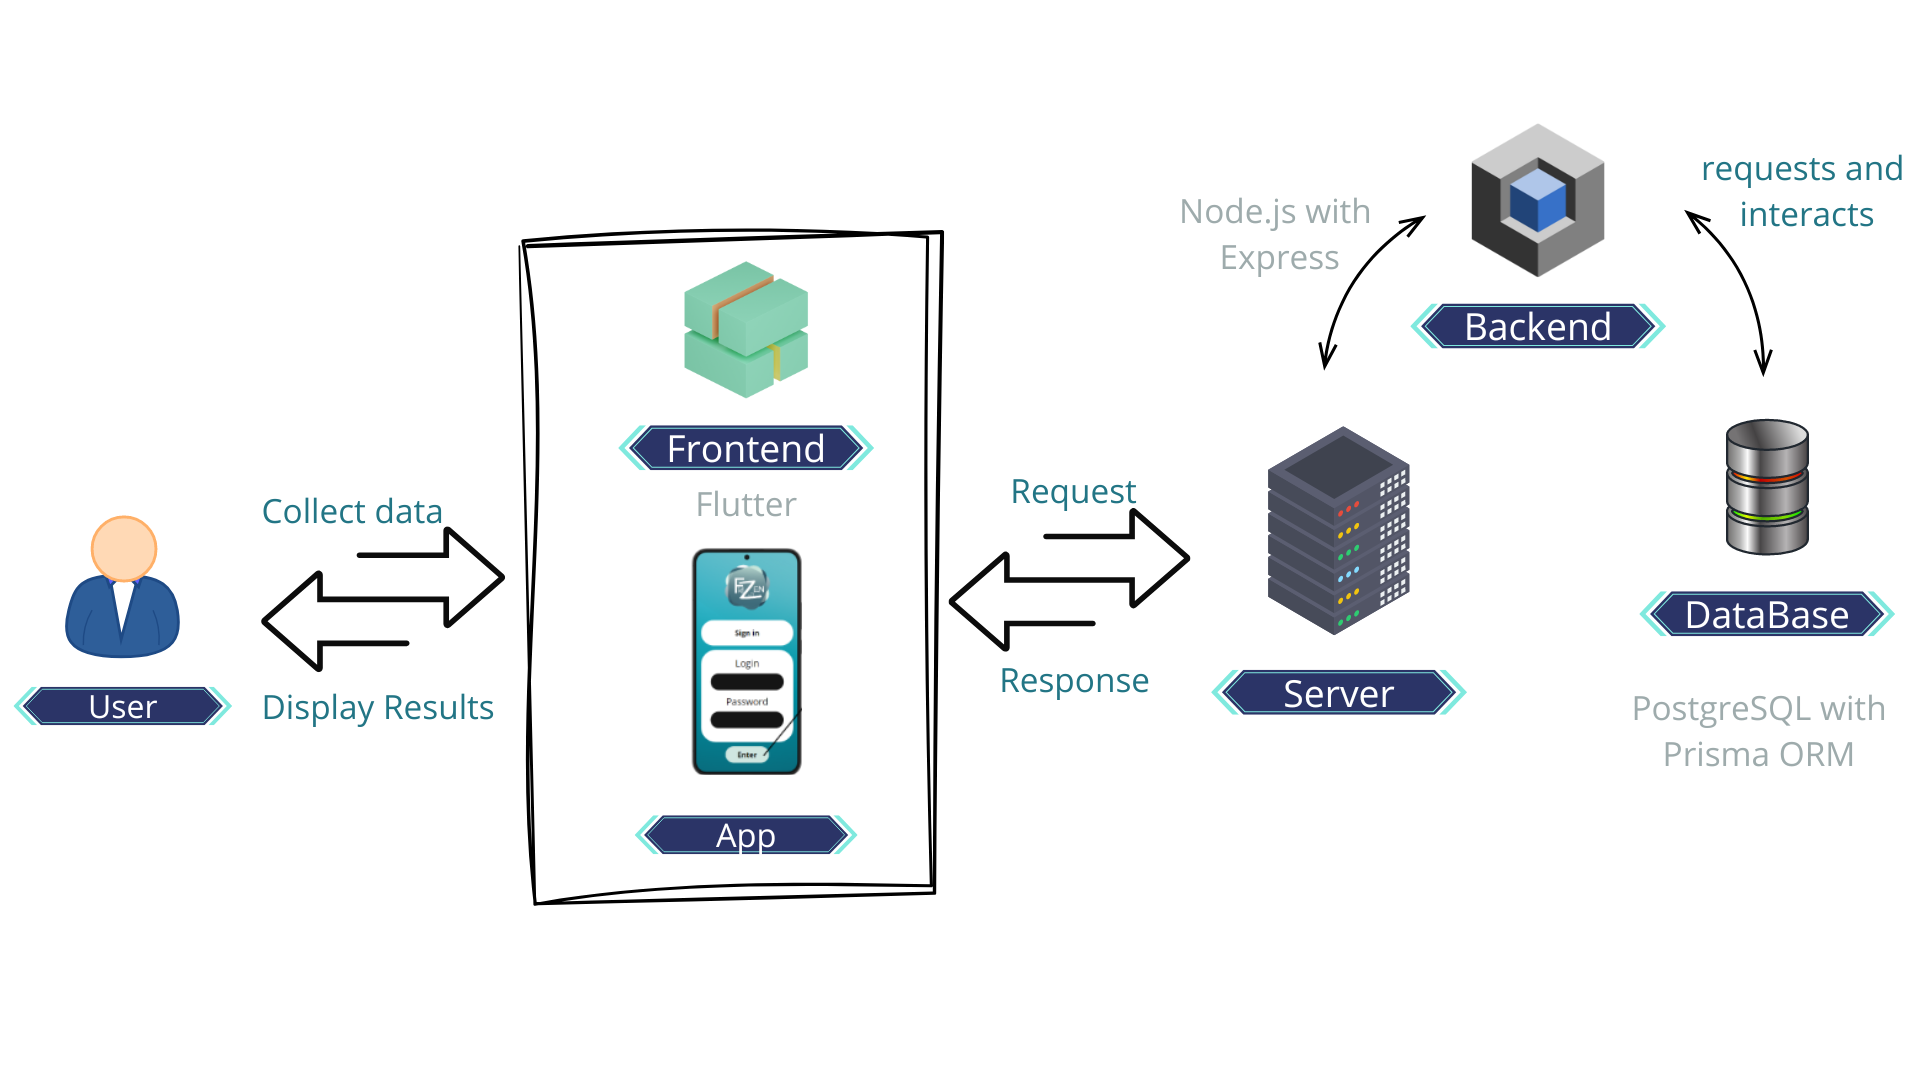
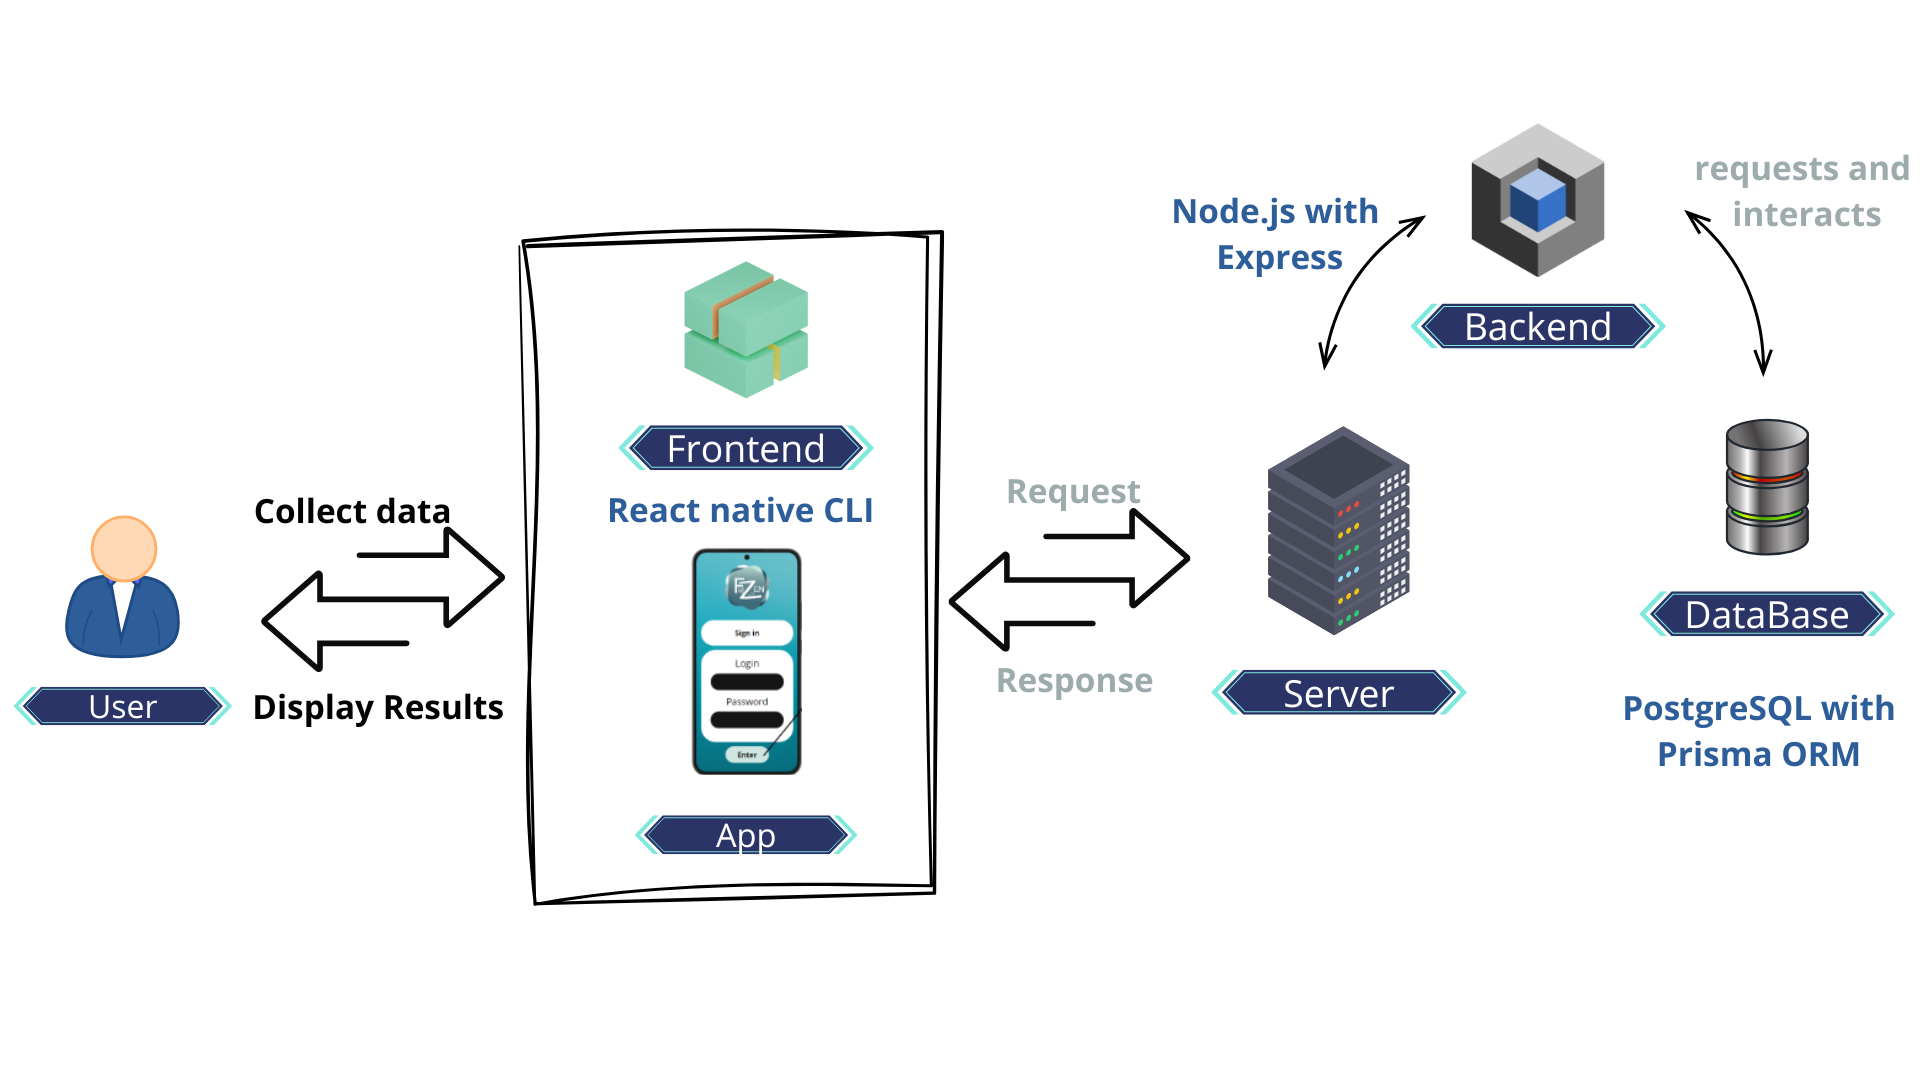
modification picture and Readme.md

diff --git a/FidZen_front/src/components/FidelityCard.js b/FidZen_front/src/components/FidelityCard.js
@@ -7,24 +7,27 @@ export default function FidelityCard({ navigation }) {
   const [storeName, setStoreName] = useState('');
 
   const handleTakePhoto = () => {
-    // Logique pour prendre une photo
     console.log('Taking a photo of the card');
   };
 
   const handleAddCard = () => {
-    // Logique pour ajouter la carte
     console.log('Card added:', { cardNumber, storeName });
+  };
+
+  const handleDeleteCard = () => {
+    // Logique pour supprimer la carte
+    console.log('Card deleted:', { cardNumber, storeName });
+    setCardNumber(''); // Réinitialise le numéro de carte
+    setStoreName(''); // Réinitialise le nom du magasin
   };
 
   return (
     <LinearGradient colors={['#43cea2', '#185a9d']} style={styles.gradient}>
-      {/* Logo en haut */}
       <Image source={require('../assets/logo_fidzen.png')} style={styles.logo} />
 
       <View style={styles.container}>
         <Text style={styles.title}>Add Fidelity Card</Text>
 
-        {/* Champ numéro de carte */}
         <View style={styles.inputContainer}>
           <Text style={styles.label}>Card Number:</Text>
           <TextInput
@@ -36,7 +39,6 @@ export default function FidelityCard({ navigation }) {
           />
         </View>
 
-        {/* Champ nom du magasin */}
         <View style={styles.inputContainer}>
           <Text style={styles.label}>Store Name:</Text>
           <TextInput
@@ -48,14 +50,17 @@ export default function FidelityCard({ navigation }) {
           />
         </View>
 
-        {/* Bouton pour prendre une photo */}
         <TouchableOpacity style={styles.photoButton} onPress={handleTakePhoto}>
           <Text style={styles.photoButtonText}>Take a Picture</Text>
         </TouchableOpacity>
 
-        {/* Bouton pour ajouter la carte */}
         <TouchableOpacity style={styles.addButton} onPress={handleAddCard}>
           <Text style={styles.addButtonText}>Add Card</Text>
+        </TouchableOpacity>
+
+        {/* Bouton pour supprimer la carte */}
+        <TouchableOpacity style={styles.deleteButton} onPress={handleDeleteCard}>
+          <Text style={styles.deleteButtonText}>Delete Card</Text>
         </TouchableOpacity>
       </View>
     </LinearGradient>
@@ -104,13 +109,13 @@ const styles = StyleSheet.create({
   input: {
     width: '100%',
     height: 50,
-    backgroundColor: '#f0f0f0', // Gris clair pour les champs de saisie
+    backgroundColor: '#f0f0f0',
     borderRadius: 10,
     paddingHorizontal: 10,
     color: '#005f99',
   },
   photoButton: {
-    backgroundColor: '#4CAF50', // Couleur verte pour le bouton de photo
+    backgroundColor: '#4CAF50',
     paddingVertical: 15,
     width: '100%',
     borderRadius: 25,
@@ -123,13 +128,27 @@ const styles = StyleSheet.create({
     fontWeight: 'bold',
   },
   addButton: {
-    backgroundColor: '#0288d1', // Couleur bleue pour le bouton d'ajout
+    backgroundColor: '#0288d1',
     paddingVertical: 15,
     width: '100%',
     borderRadius: 25,
     alignItems: 'center',
+    marginBottom: 15,
   },
   addButtonText: {
+    color: '#fff',
+    fontSize: 18,
+    fontWeight: 'bold',
+  },
+  deleteButton: {
+    backgroundColor: '#d32f2f', // Couleur rouge pour le bouton de suppression
+    paddingVertical: 15,
+    width: '100%',
+    borderRadius: 25,
+    alignItems: 'center',
+    marginTop: 10,
+  },
+  deleteButtonText: {
     color: '#fff',
     fontSize: 18,
     fontWeight: 'bold',

diff --git a/README.md b/README.md
@@ -2,7 +2,7 @@
 
 ![FidZen Logo](https://github.com/Ho2bes/FidZen/blob/develop/image/LOGO%20FIDZEN.png)
 
-**FidZen** is a mobile application designed to centralize your loyalty cards and notify you of product recalls related to your purchases. Simplify the management of your loyalty cards, stay informed of product recalls in real-time, and keep all your essential information at your fingertips.
+**FidZen** is a mobile application aimed at simplifying loyalty card management and providing timely notifications for product recalls. With FidZen, users can store all their loyalty cards in one place, receive real-time product recall alerts, and access key information conveniently.
 
 ## Table of Contents
 
@@ -18,38 +18,38 @@
 
 ## About
 
-FidZen is designed for modern consumers who juggle numerous loyalty cards. Our application allows you to centralize all your cards in one place, scan your receipts, and receive notifications in case of a product recall. FidZen ensures you never forget a loyalty card and protects you from recalled products.
+FidZen is designed for modern consumers managing numerous loyalty cards and wanting to stay informed about product recalls that may impact their purchases. By centralizing loyalty cards and notifications, FidZen provides a seamless way to keep track of essential information and ensures users never miss important updates on recalled items.
 
 ## Features
 
-- **Loyalty Card Management**: Easily add, edit, and delete your loyalty cards.
-- **Receipt Scanning**: Scan your receipts and automatically link them to your loyalty cards.
-- **Product Recall Notifications**: Receive real-time alerts if a purchased product is recalled.
-- **Intuitive Interface**: A simple and pleasant interface designed for optimal user experience.
+- **Loyalty Card Management**: Easily add, view, edit, and delete your loyalty cards.
+- **Product Recall Notifications**: Get instant notifications if a purchased product is recalled.
+- **Modern Interface**: A clean and user-friendly design for an intuitive experience.
+- **Secure Account**: Safe storage of your personal and purchase data.
 
 ## Technologies Used
 
-- **Frontend**: Flutter
+- **Frontend**: React Native
 - **Backend**: Node.js with Express
 - **Database**: PostgreSQL with Prisma ORM
-- **Notifications**: Firebase Cloud Messaging (FCM)
-- **Containerization**: Docker
+- **Notifications**: Push notifications via integrated services (initially explored FCM and OneSignal)
+- **Containerization**: Docker (for consistency across development environments)
 
 ## Installation
 
 ### Prerequisites
 
 - Node.js and npm
-- Flutter
 - Docker
 - PostgreSQL
+- React Native CLI (for mobile development)
 
 ### Installation Steps
 
 1. **Clone the repository:**
    ```bash
-   git clone https://github.com/your-repo/fidzen.git
-   cd fidzen
+   git clone https://github.com/Ho2bes/FidZen.git
+   cd FidZen
    ```
 
 2. **Install backend dependencies:**
@@ -58,20 +58,17 @@ FidZen is designed for modern consumers who juggle numerous loyalty cards. Our a
 	npm install
    ```
 
-3. **Install frontend dependencies:**
-   ```bash
-   	cd ../frontend
-	flutter pub get
+3. **Install frontend dependencies**
+   ```cd ../FidZen_front
+   npm install
 	```
 
 4. **Set up Docker environment:**
-   ```bash
-   docker-compose up -d
-   ```
+   ```docker-compose up -d
+	```
 
 5. **Database migrations:**
-   ```bash
-   cd backend
+   ```cd backend
    npx prisma migrate dev
    ```
 
@@ -79,28 +76,25 @@ FidZen is designed for modern consumers who juggle numerous loyalty cards. Our a
 
 - **Backend**:
     ```bash
-    npm run start  # from the backend folder
+    npm start  # from the backend folder
     ```
 - **Frontend**:
     ```bash
-    flutter run  # from the frontend folder
+    npx react-native run-android  # for Android emulator or device
     ```
 
 ## Usage
 
-- **Create an Account**: Register with your email address and a secure password.
-- **Add a Loyalty Card**: Add a card through the user interface by filling in the required information.
-- **Scan a Receipt**: Use the scan feature to automatically add purchased products.
-- **Receive Notifications**: Enable notifications to be alerted in case of a product recall.
+Create an Account: Register with your email address and a secure password.
+Add a Loyalty Card: Add a card through the user interface by filling in the required information.
+Enable Notifications: Stay updated on any product recalls.
 
 ## Architecture
 
-FidZen’s architecture follows a layered approach, separating the frontend, backend, and database for optimal management and security.
-
-- **Frontend (Flutter)**: Manages the user interface and user interactions.
-- **Backend (Node.js)**: Manages business logic, REST APIs, and user authentication.
-- **Database (PostgreSQL)**: Stores user information, loyalty cards, and receipts.
-- **Notifications (FCM)**: Sends product recall notifications to users.
+FidZen’s architecture separates the frontend, backend, and database components to ensure scalability and maintainability.
+Frontend (React Native): Handles user interface and interactions.
+Backend (Node.js): Manages business logic, REST APIs, and authentication.
+Database (PostgreSQL): Stores user data, loyalty card details, and other relevant information.
 
 ![Architecture FidZen](https://github.com/Ho2bes/FidZen/blob/develop/image/Architecture%20FidZen.png)
 
